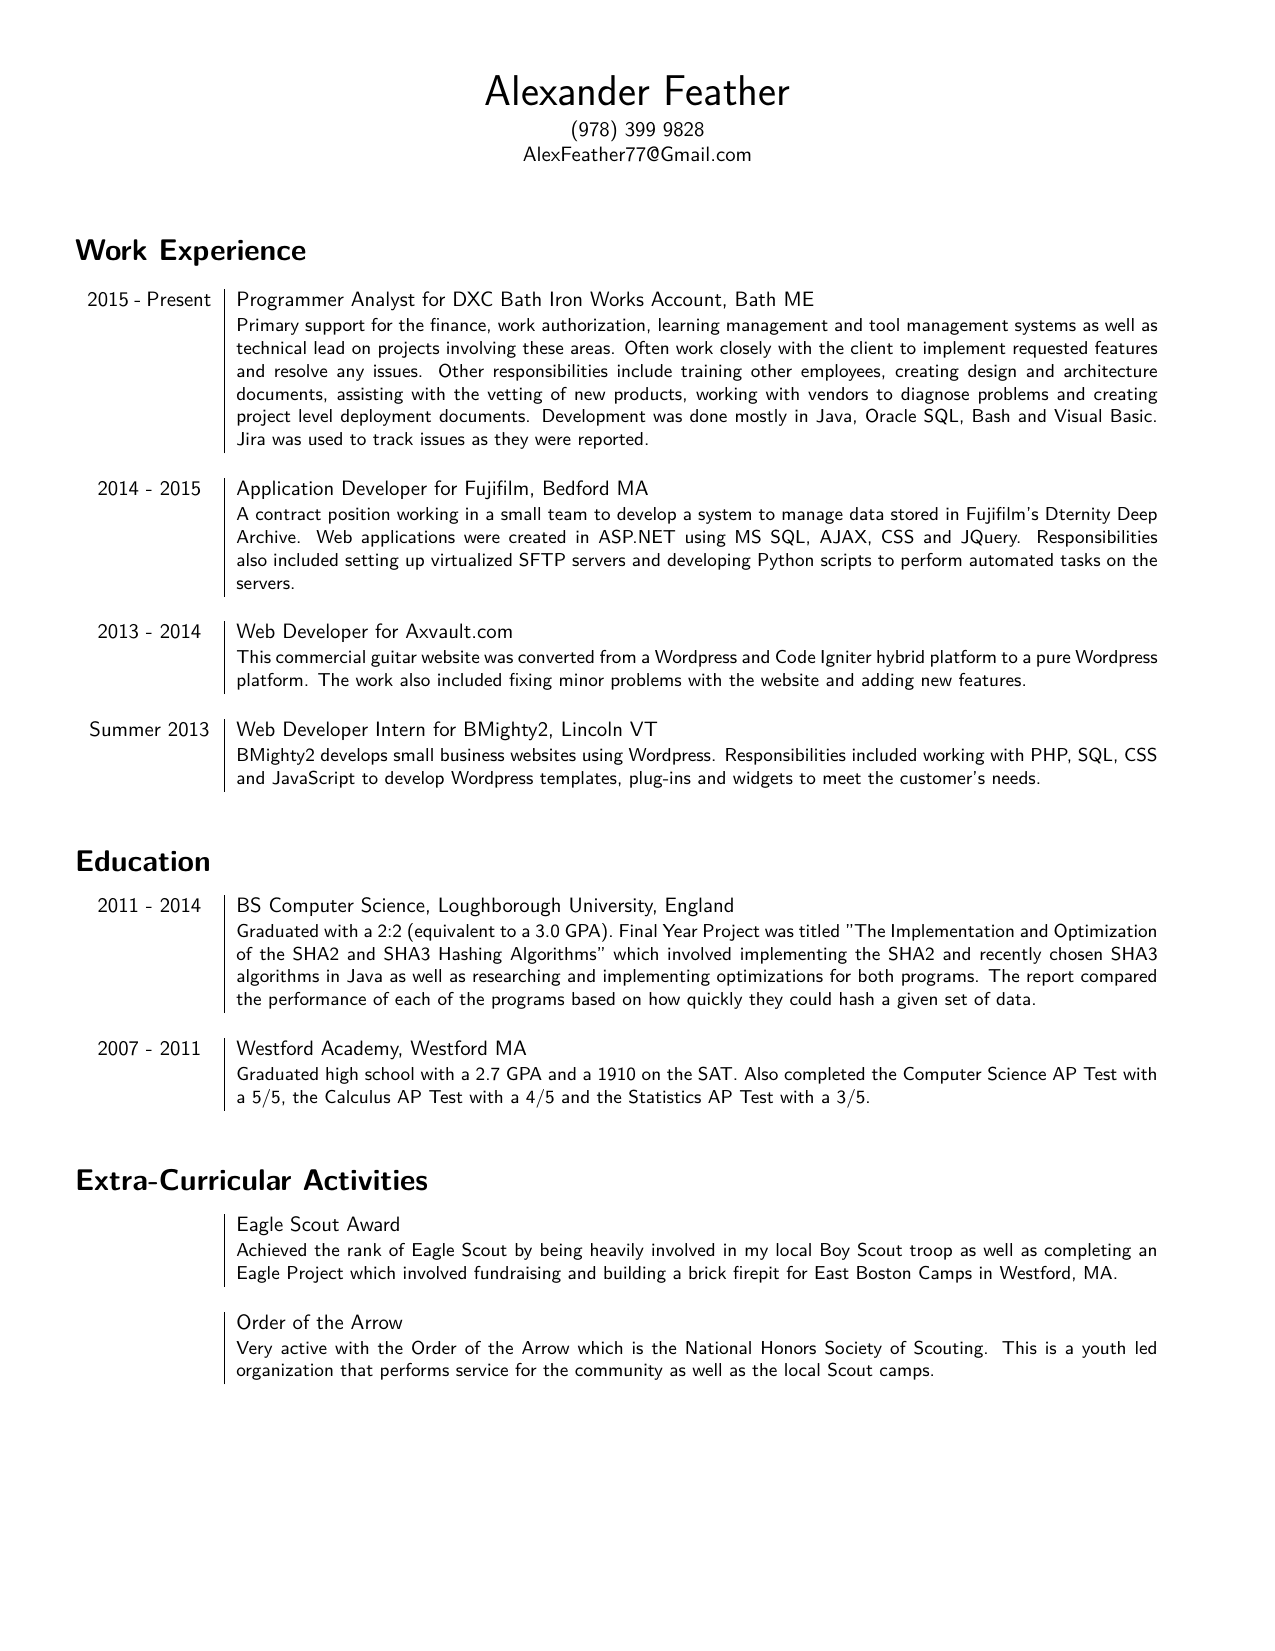
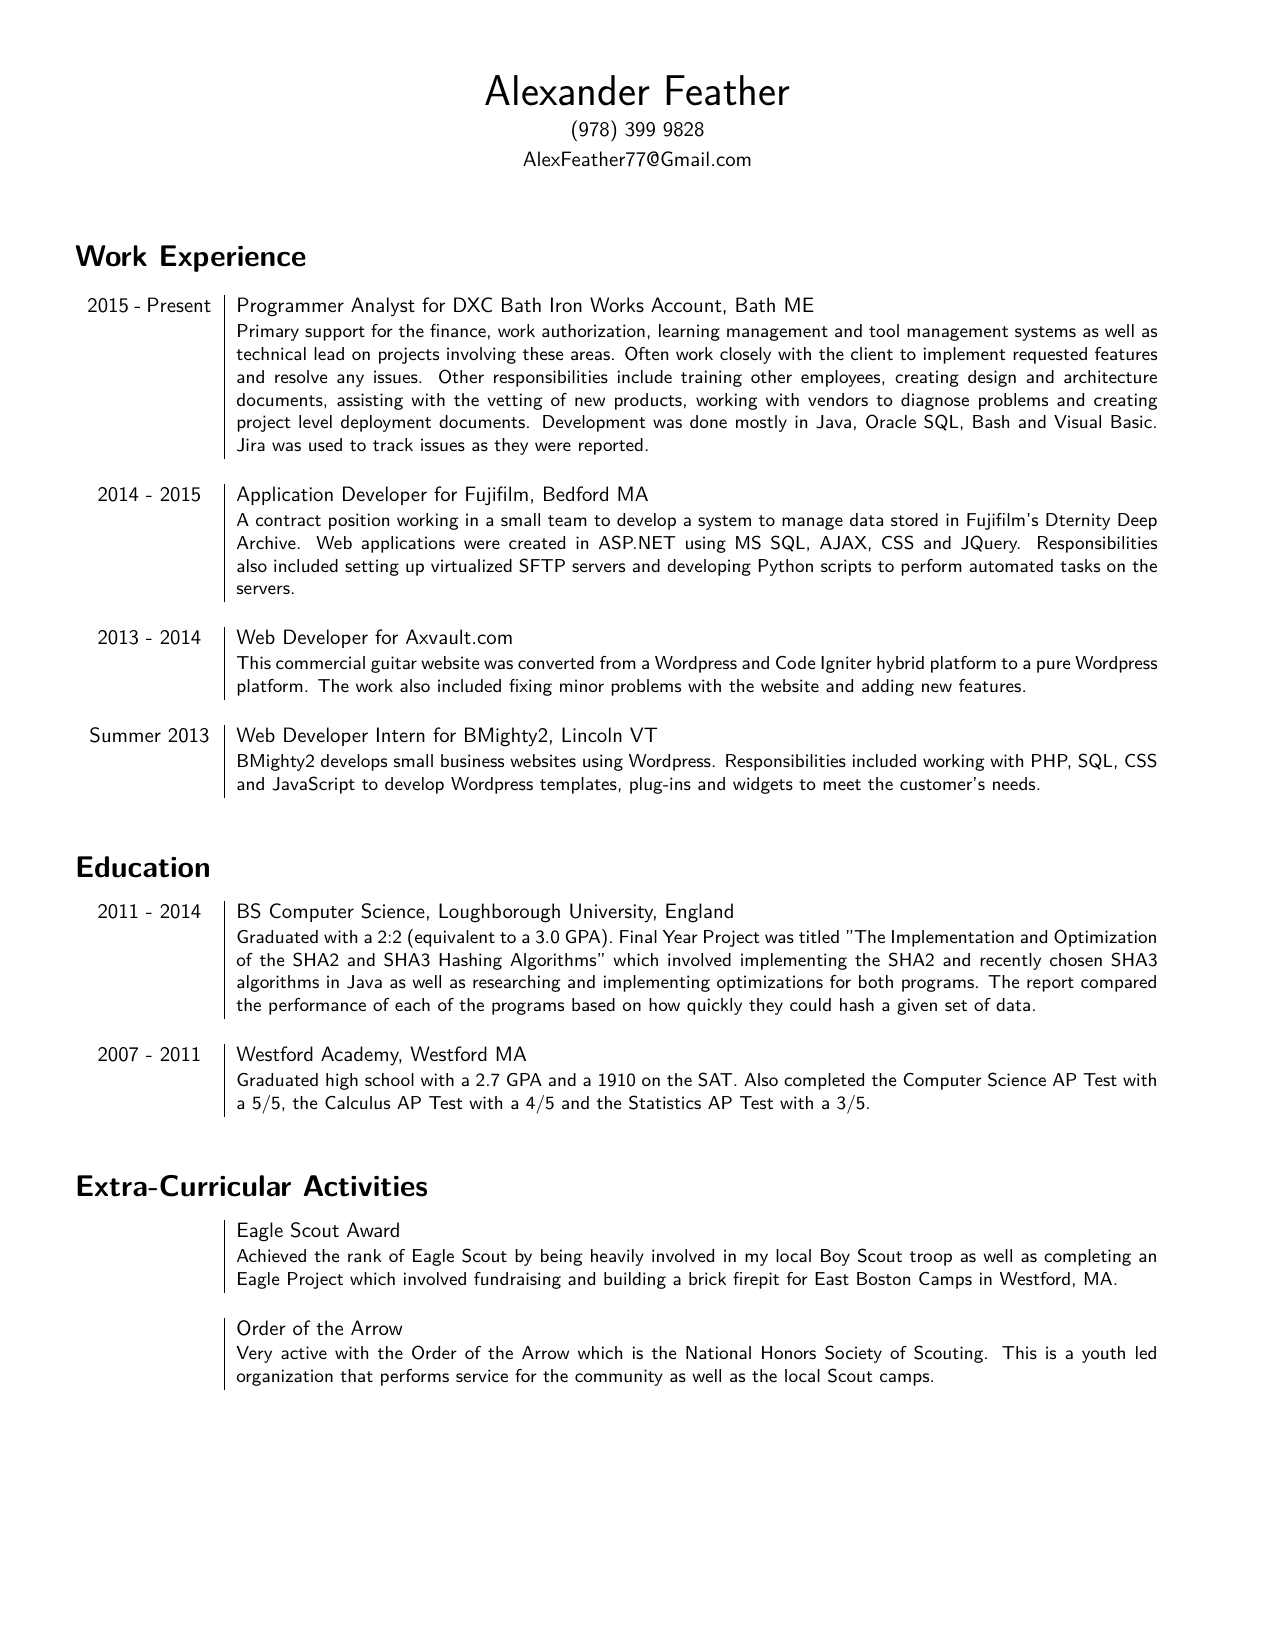
Updated Resume Files

diff --git a/Resume.tex b/Resume.tex
@@ -8,7 +8,7 @@
 \fontfamily{lmss}\selectfont
 
 {\centering{\huge Alexander Feather}\\
-\vspace{0.1cm}(978) 399 9828\\AlexFeather77@Gmail.com\\}
+\vspace{0.1cm}(978) 399 9828\\\vspace{0.1cm}AlexFeather77@Gmail.com\\}
 \vspace{0.5cm}
 \section*{\fontfamily{lmss}\selectfont Work Experience}
 \begin{tabular}{p{2.1cm}|p{15.6cm}}
